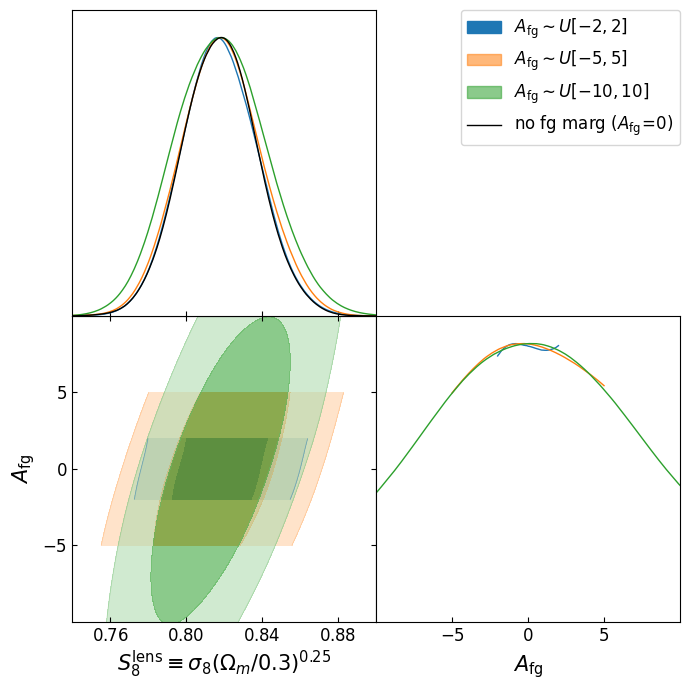
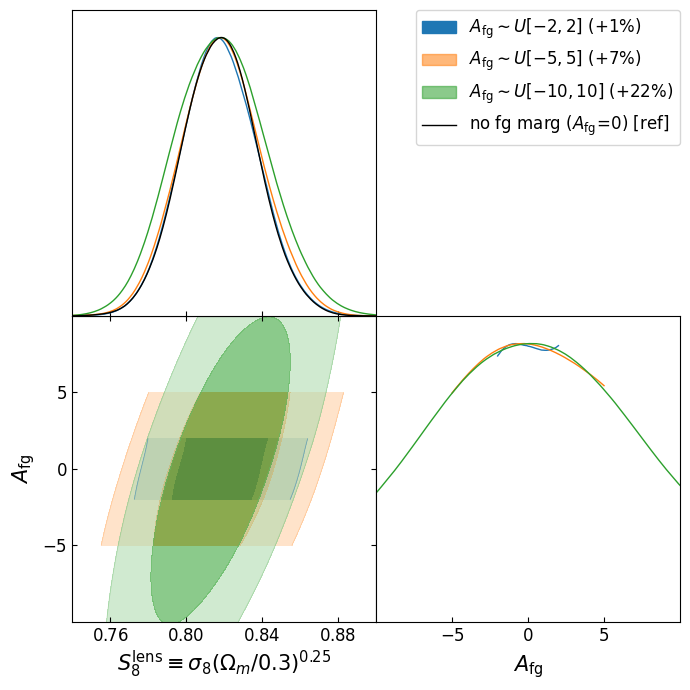
Show S8_lens degradation percentage in triangle plot legend

Changed region(s): [[0.6087, 0.0, 0.9739, 0.213]]

diff --git a/notebooks/fg_marg_S825_Afg_triangle.py b/notebooks/fg_marg_S825_Afg_triangle.py
@@ -13,7 +13,7 @@ runs = [
     ('afg_extended_u10', r'$A_{\rm fg}\sim U[-10,10]$',       '#2ca02c'),
     ('control_extended', r'no fg marg ($A_{\rm fg}\!=\!0$)', '#000000'),
 ]
-samples = []
+samples, errs = [], []
 for root, lab, _ in runs:
     s = loadMCSamples(base + root, settings={'ignore_rows': 0.3})
     s.paramNames.parWithName('S825').label = r'S_8^{\rm lens}\equiv\sigma_8(\Omega_m/0.3)^{0.25}'
@@ -21,8 +21,17 @@ for root, lab, _ in runs:
     if afg is not None:
         afg.label = r'A_{\rm fg}'
     samples.append(s)
-    st = s.getMargeStats().parWithName('S825')
-    print(f'{lab:34s}  S8_lens = {st.mean:.4f} +/- {st.err:.4f}')
+    errs.append(s.getMargeStats().parWithName('S825').err)
+
+# Degradation in sigma(S8_lens) relative to the no-fg-marg control (last entry).
+sig_ref = errs[-1]
+legend_labels = []
+for (root, lab, _), err in zip(runs, errs):
+    if root == 'control_extended':
+        legend_labels.append(lab + ' [ref]')
+    else:
+        legend_labels.append(lab + f' ($+{100*(err/sig_ref - 1):.0f}\\%$)')
+    print(f'{lab:34s}  sigma(S8_lens) = {err:.4f}  {legend_labels[-1]}')
 
 g = gplt.get_subplot_plotter(width_inch=7)
 g.settings.legend_fontsize = 12
@@ -32,7 +41,7 @@ g.settings.alpha_filled_add = 0.55
 g.triangle_plot(
     samples, ['S825', 'A_fg'],
     filled=True,
-    legend_labels=[lab for _, lab, _ in runs],
+    legend_labels=legend_labels,
     legend_loc='upper right',
     contour_colors=[c for _, _, c in runs],
     param_limits={'A_fg': (-10, 10), 'S825': (0.74, 0.90)},
